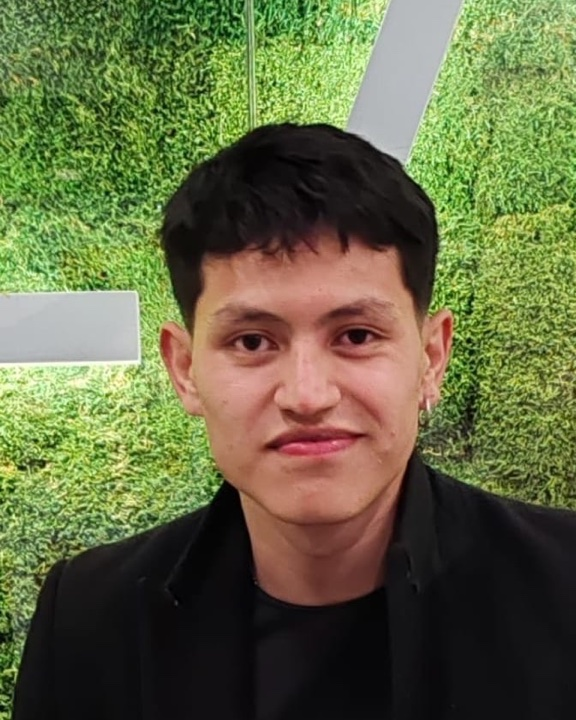
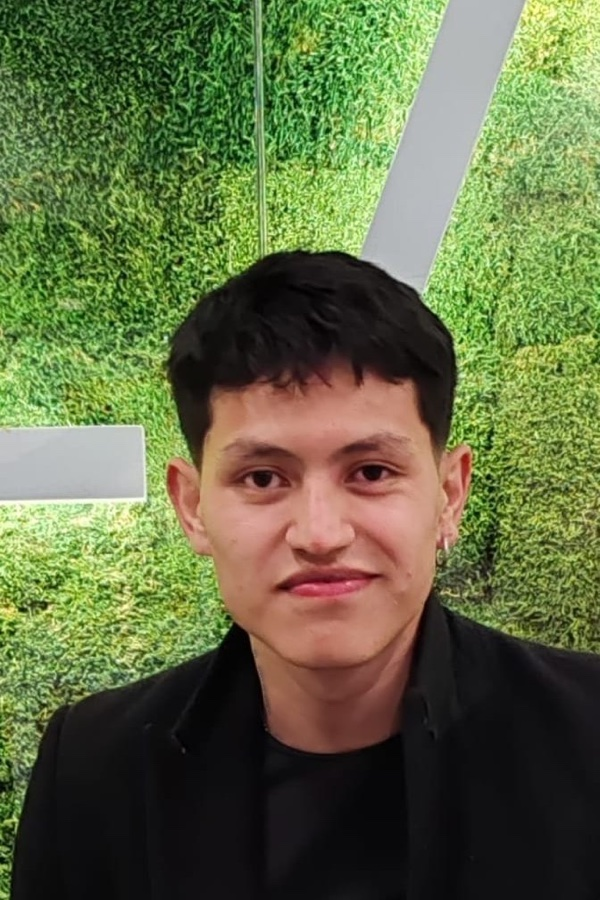
Landing v3.2: retouched wider photo, scannable case cards with folded details

diff --git a/index.html b/index.html
@@ -129,30 +129,33 @@
     <div class="cases">
       <article class="case">
         <p class="case-tag">Real estate · Lead-gen agency (US)</p>
+        <p class="case-num">93.6% <span>delivered</span></p>
+        <p class="case-num2">57 replies (12.2%) from one reactivation campaign</p>
         <h3>Safe SMS reactivation at scale</h3>
-        <dl>
-          <dt>The problem</dt><dd>Thousands of old contacts and a sub-account close to its carrier and opt-out limits.</dd>
-          <dt>What I did</dt><dd>Daily-capped batches, opt-out handling, error tags with requeue and delivery monitoring. When the account hit its daily opt-out limit, I traced it to follow-ups missing an opt-out line and fixed them.</dd>
-          <dt>Result</dt><dd><strong>467 texts delivered (93.6%), 57 replies (12.2%)</strong>. The next batch of 240 went out with 0 limit errors.</dd>
-        </dl>
+        <p class="case-line">Thousands of old contacts texted without getting the account restricted.</p>
+        <details class="case-more"><summary>How I did it</summary>
+          <ul><li>Daily-capped batches with opt-out handling</li><li>Error tags with automatic requeue and delivery monitoring</li><li>When the account hit its daily opt-out limit, I traced it to follow-ups missing an opt-out line and fixed them: the next batch of 240 had 0 limit errors</li></ul>
+        </details>
       </article>
       <article class="case">
         <p class="case-tag">Real estate · Realtor network (US)</p>
+        <p class="case-num">4 <span>calls asked</span></p>
+        <p class="case-num2">on the first day, with 0 delivery failures</p>
         <h3>Realtor reactivation campaign</h3>
-        <dl>
-          <dt>The problem</dt><dd>A list of realtors who had gone quiet, and a team with no time to text them one by one.</dd>
-          <dt>What I did</dt><dd>About 50 personal openers a day from the right number, an alert to the team the moment a realtor replies, and a stop for anyone who opts out.</dd>
-          <dt>Result</dt><dd><strong>0 delivery failures, and 4 realtors asked for a call on the first day.</strong></dd>
-        </dl>
+        <p class="case-line">A quiet list of realtors woken up without anyone texting them one by one.</p>
+        <details class="case-more"><summary>How I did it</summary>
+          <ul><li>About 50 personal openers a day from the right number</li><li>An alert to the team the moment a realtor replies</li><li>Automatic stop for anyone who opts out</li></ul>
+        </details>
       </article>
       <article class="case">
         <p class="case-tag">B2B company (Europe) · GoHighLevel + n8n</p>
+        <p class="case-num">100% <span>first touch</span></p>
+        <p class="case-num2">of the leads in the pilot got an AI first message</p>
         <h3>AI lead setter and follow-up engine</h3>
-        <dl>
-          <dt>The problem</dt><dd>Leads from a Google Ads form, WhatsApp and Calendly got no fast first touch and no steady follow-up.</dd>
-          <dt>What I did</dt><dd>An AI agent gives every lead a first touch and moves it through AI stages in the pipeline. Follow-ups go out at 5, 7, 14 and 20 days, only after a person approves them and only in the lead's local business hours.</dd>
-          <dt>Result</dt><dd><strong>Every lead in the pilot got a first touch</strong>, and the sales team sees who is talking and who went quiet in one place.</dd>
-        </dl>
+        <p class="case-line">Ads, WhatsApp and Calendly leads stopped falling through the cracks.</p>
+        <details class="case-more"><summary>How I did it</summary>
+          <ul><li>An AI agent sends the first touch and moves each lead through AI stages in the pipeline</li><li>Follow-ups at 5, 7, 14 and 20 days, approved by a person first</li><li>Sent only in the lead's local business hours, 4 touches max</li></ul>
+        </details>
       </article>
     </div>
 
@@ -170,7 +173,7 @@
 <!-- 7. About -->
 <section class="sec">
   <div class="wrap about">
-    <img class="about-photo" src="Images/Persona/juan-2026.jpg" alt="Juan Hurtado" loading="lazy" width="576" height="720">
+    <img class="about-photo" src="Images/Persona/juan-2026.jpg" alt="Juan Hurtado" width="600" height="900">
     <div>
       <h2>You work directly with me</h2>
       <p>I'm Juan, based in Bogota, Colombia, and my hours overlap with US business hours. I spent 7 years writing production software before moving into automation, so when GoHighLevel hits a limit I connect n8n, an API or a small piece of code, with error handling and alerts.</p>

diff --git a/assets/v3.css b/assets/v3.css
@@ -92,7 +92,7 @@ h3{font-size:19px;font-weight:700}
 
 /* sobre mi */
 .about{display:grid;grid-template-columns:300px 1fr;gap:48px;align-items:center}
-.about-photo{width:100%;aspect-ratio:3/4;object-fit:cover;border-radius:var(--radius);border:1px solid var(--line)}
+.about-photo{width:100%;height:auto;aspect-ratio:2/3;object-fit:cover;object-position:center 30%;border-radius:var(--radius);border:1px solid var(--line)}
 .about p{color:var(--mute);margin-top:14px}
 .about h2{margin-bottom:4px}
 
@@ -147,3 +147,14 @@ details p{padding:0 22px 20px;color:var(--mute)}
 .works span{color:var(--ink);border:1px solid var(--line);border-radius:8px;padding:4px 10px;font-size:14px}
 .case dt{text-transform:none;letter-spacing:0;font-size:13px;font-weight:600}
 @media (max-width:760px){.leaks,.offer{grid-template-columns:1fr}.fact{grid-template-columns:1fr;gap:12px}}
+
+/* v3.2: casos que se leen de un vistazo */
+.case-num{font-size:44px;font-weight:800;letter-spacing:-.03em;line-height:1;margin-top:16px}
+.case-num span{font-size:18px;font-weight:600;color:var(--mute);letter-spacing:0}
+.case-num2{color:var(--ok);font-size:15px;margin-top:8px;font-weight:600}
+.case h3{margin-top:18px}
+.case-line{color:var(--mute);margin-top:6px;font-size:16px}
+.case-more{background:none;border:0;border-top:1px solid var(--line);border-radius:0;margin-top:18px}
+.case-more summary{padding:14px 0 0;font-size:15px;color:var(--ink)}
+.case-more ul{padding:10px 0 0 18px;color:var(--mute);font-size:15px}
+.case-more li{margin-top:6px}
